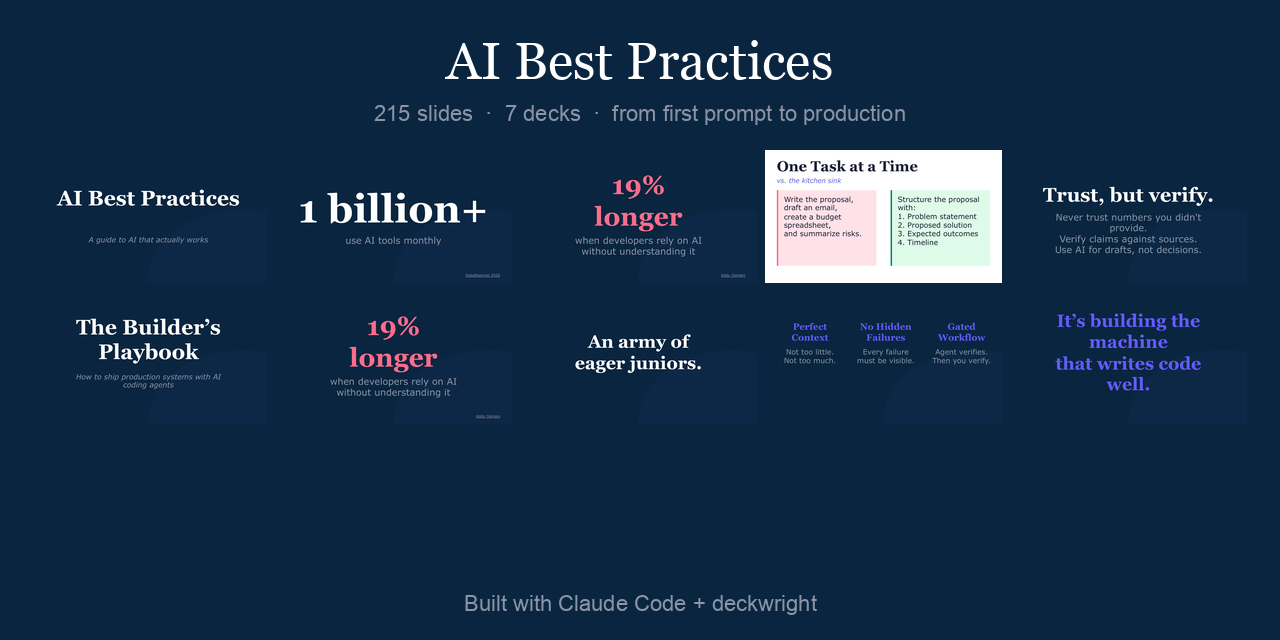
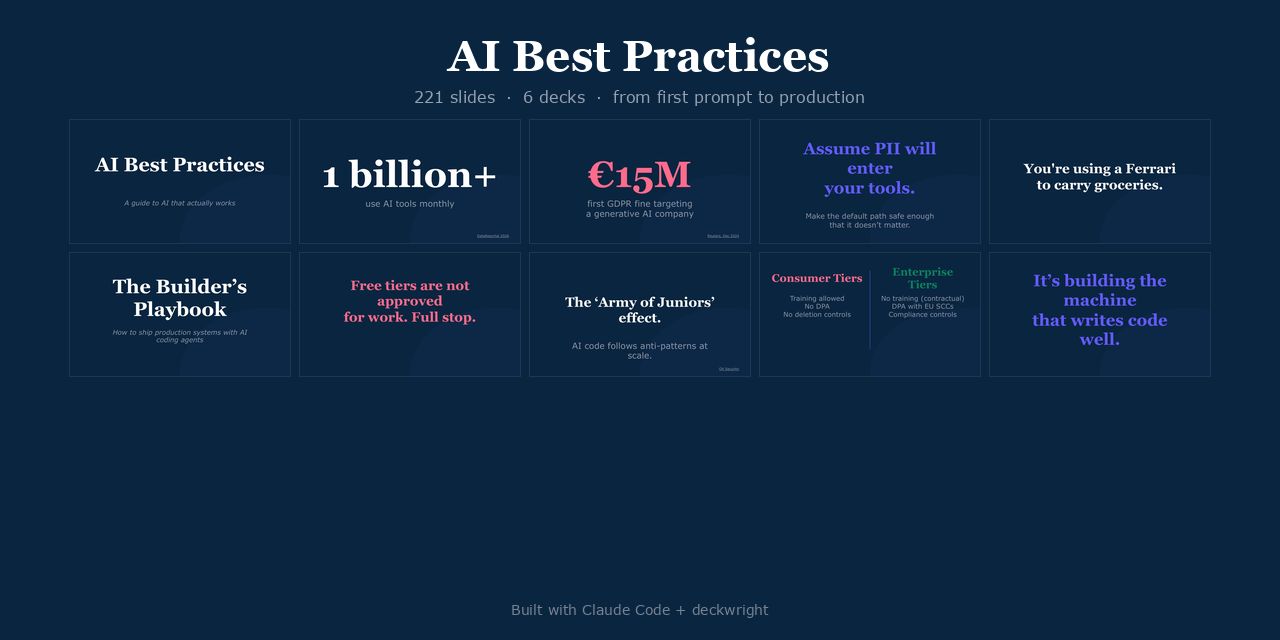
Update social preview, fix slide counts, use dynamic counts in scripts
- Regenerate social preview with ai-policy slides, correct 221/6 count
- Fix README reference deck count 68 → 70
- Replace hardcoded slide counts with pres.slides.length in all 6 scripts

diff --git a/decks/ai-best-practices/ai-best-practices.js b/decks/ai-best-practices/ai-best-practices.js
@@ -1086,7 +1086,7 @@ async function main() {
   // ============================================================
   console.log("Writing presentation...");
   await pres.writeFile({ fileName: path.join(__dirname, "ai-best-practices.pptx") });
-  console.log("Done! Created ai-best-practices.pptx (70 slides, billboard)");
+  console.log(`Done! Created ai-best-practices.pptx (${pres.slides.length} slides, billboard)`);
 }
 
 main().catch(err => { console.error("Error:", err); process.exit(1); });

diff --git a/decks/ai-policy/ai-policy.js b/decks/ai-policy/ai-policy.js
@@ -694,7 +694,7 @@ async function main() {
   // ============================================================
   console.log("Writing presentation...");
   await pres.writeFile({ fileName: path.join(__dirname, "ai-policy.pptx") });
-  console.log("Done! Created ai-policy.pptx (33 slides, billboard)");
+  console.log(`Done! Created ai-policy.pptx (${pres.slides.length} slides, billboard)`);
 }
 
 main().catch(err => { console.error("Error:", err); process.exit(1); });

diff --git a/decks/ai-academy-pitch/ai-academy-pitch.js b/decks/ai-academy-pitch/ai-academy-pitch.js
@@ -225,7 +225,7 @@ async function main() {
   // ============================================================
   console.log("Writing presentation...");
   await pres.writeFile({ fileName: path.join(__dirname, "ai-academy-pitch.pptx") });
-  console.log("Done! Created ai-academy-pitch.pptx (10 slides)");
+  console.log(`Done! Created ai-academy-pitch.pptx (${pres.slides.length} slides)`);
 }
 
 main().catch(err => { console.error("Error:", err); process.exit(1); });

diff --git a/decks/builder/builder.js b/decks/builder/builder.js
@@ -953,7 +953,7 @@ async function main() {
   // ============================================================
   console.log("Writing presentation...");
   await pres.writeFile({ fileName: path.join(__dirname, "builder.pptx") });
-  console.log("Done! Created builder.pptx (55 slides, billboard)");
+  console.log(`Done! Created builder.pptx (${pres.slides.length} slides, billboard)`);
 }
 
 main().catch(err => { console.error("Error:", err); process.exit(1); });

diff --git a/decks/workshop-2-orchestrator/workshop-2-orchestrator.js b/decks/workshop-2-orchestrator/workshop-2-orchestrator.js
@@ -515,7 +515,7 @@ async function main() {
   // ============================================================
   const outPath = path.join(__dirname, "workshop-2-orchestrator.pptx");
   await pres.writeFile({ fileName: outPath });
-  console.log(`Created: ${outPath}`);
+  console.log(`Created: ${outPath} (${pres.slides.length} slides)`);
 }
 
 main().catch(err => { console.error(err); process.exit(1); });

diff --git a/decks/workshop-1-strategist/workshop-1-strategist.js b/decks/workshop-1-strategist/workshop-1-strategist.js
@@ -483,7 +483,7 @@ async function main() {
   // ============================================================
   const outPath = path.join(__dirname, "workshop-1-strategist.pptx");
   await pres.writeFile({ fileName: outPath });
-  console.log(`Created: ${outPath}`);
+  console.log(`Created: ${outPath} (${pres.slides.length} slides)`);
 }
 
 main().catch(err => { console.error(err); process.exit(1); });

diff --git a/README.md b/README.md
@@ -30,7 +30,7 @@ Skeptic → Explorer → Whisperer → Strategist → Operator → Orchestrator 
 
 | Deck | Slides | What it covers |
 |------|--------|----------------|
-| [Reference deck](decks/ai-best-practices/ai-best-practices.pptx) ([PDF](decks/ai-best-practices/ai-best-practices.pdf)) | 68 | The full journey — prompt engineering, context engineering, agents, orchestration |
+| [Reference deck](decks/ai-best-practices/ai-best-practices.pptx) ([PDF](decks/ai-best-practices/ai-best-practices.pdf)) | 70 | The full journey — prompt engineering, context engineering, agents, orchestration |
 | [Builder deck](decks/builder/builder.pptx) ([PDF](decks/builder/builder.pdf)) | 55 | The expert setup — quality AND speed with AI coding agents |
 | [AI policy deck](decks/ai-policy/ai-policy.pptx) ([PDF](decks/ai-policy/ai-policy.pdf)) | 33 | AI tool selection for companies — GDPR, data residency, provider tiers, recommended setup |
 
